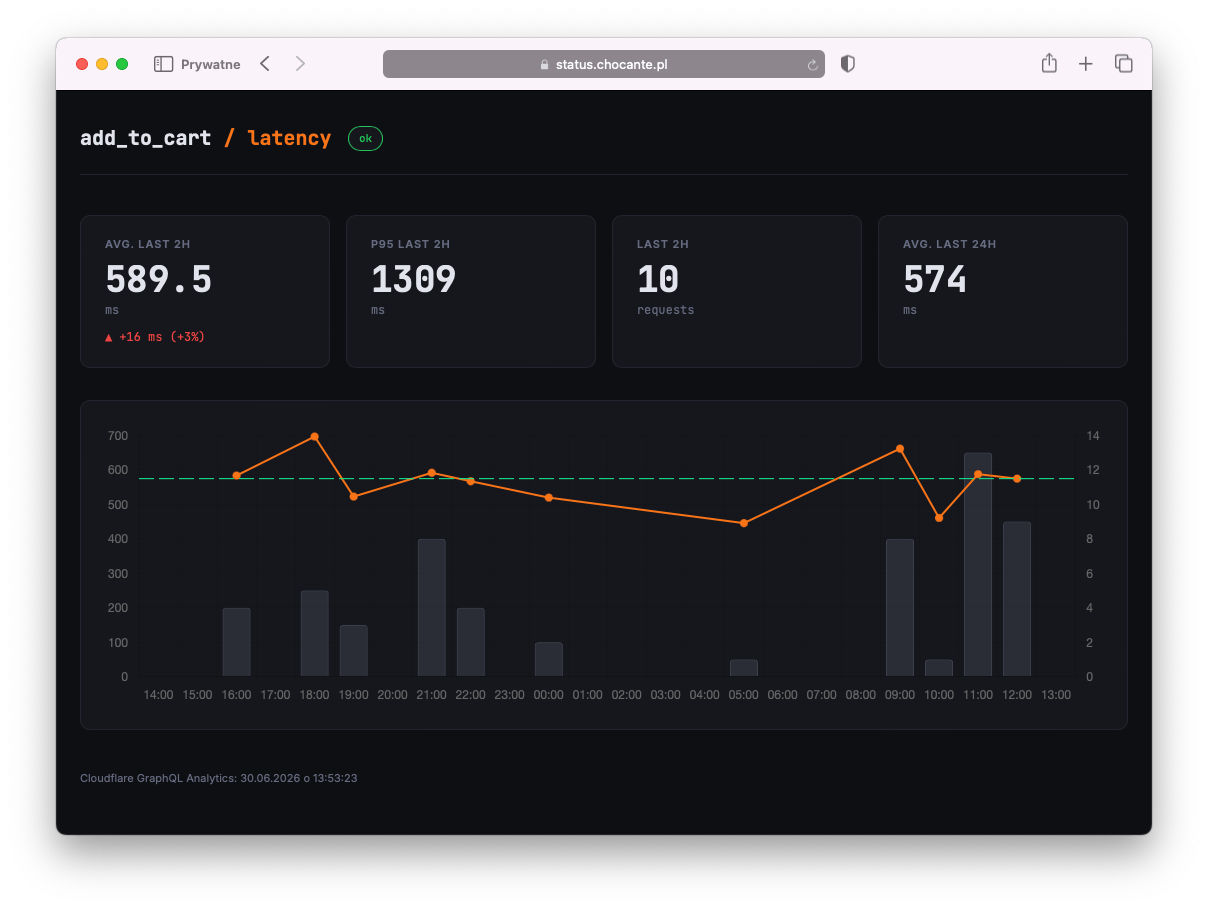
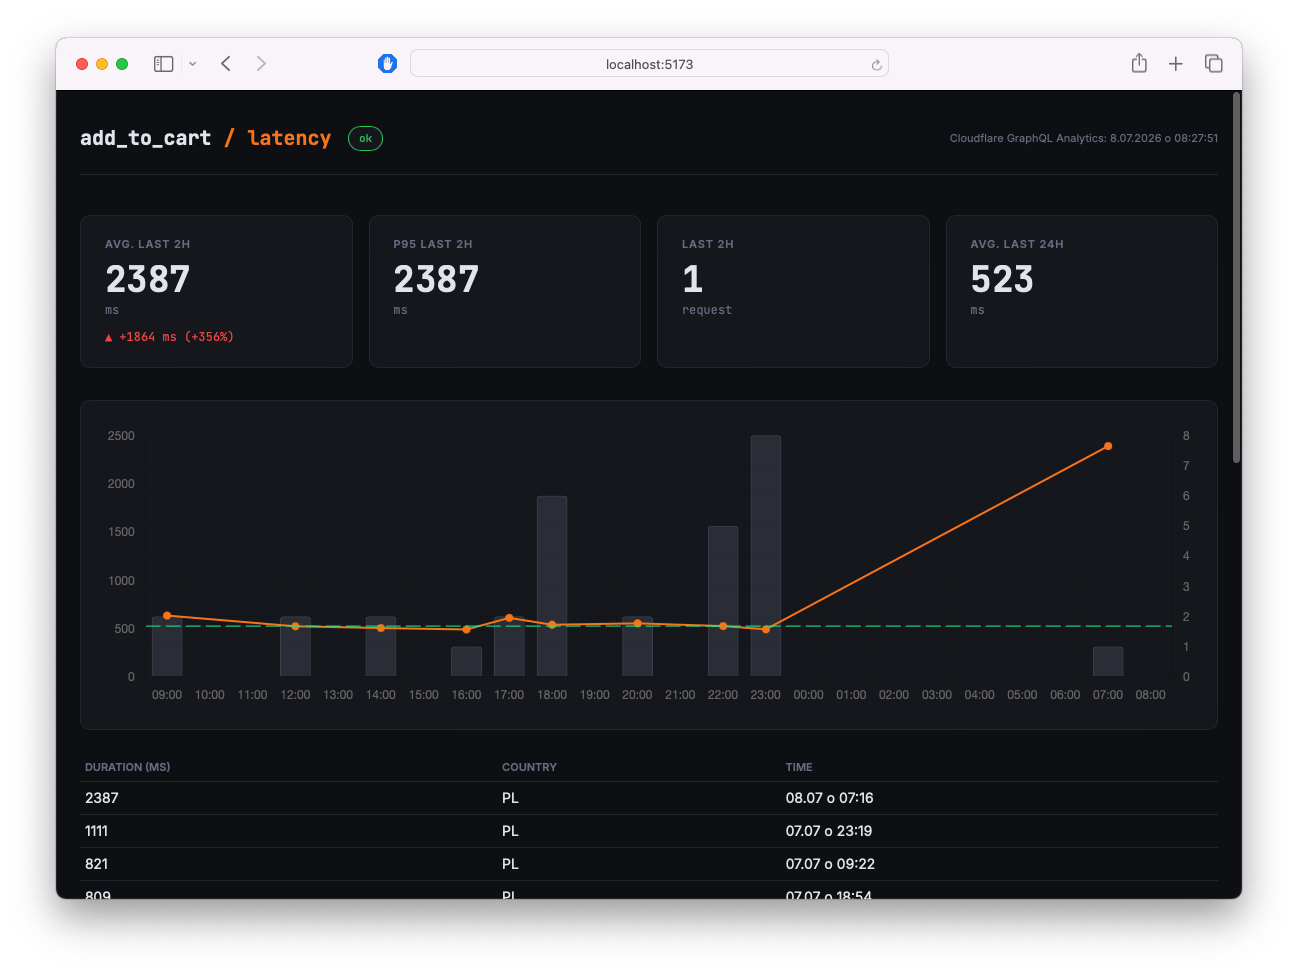
display requests in table

diff --git a/app/src/Table.tsx b/app/src/Table.tsx
@@ -1,0 +1,51 @@
+import type { CFData } from "./data";
+
+interface Props {
+	data: CFData[];
+}
+
+export default function ATCRequestTable({ data }: Props) {
+	const formatTime = (time: string) =>
+		new Date(time).toLocaleTimeString([], {
+			day: "2-digit",
+			month: "2-digit",
+			hour: "2-digit",
+			minute: "2-digit",
+		});
+
+	const sortData = (a: CFData, b: CFData) =>
+		b.originResponseDurationMs - a.originResponseDurationMs;
+
+	return (
+		<>
+			{data.length > 0 && (
+				<table className="request-table">
+					<thead>
+						<tr>
+							<th>Duration (ms)</th>
+							<th>Country</th>
+							<th>Time</th>
+						</tr>
+					</thead>
+					<tbody>
+						{data
+							.sort(sortData)
+							.map(
+								({
+									originResponseDurationMs: duration,
+									clientCountryName: country,
+									datetime: time,
+								}) => (
+									<tr key={time}>
+										<td>{duration}</td>
+										<td>{country}</td>
+										<td>{formatTime(time)}</td>
+									</tr>
+								),
+							)}
+					</tbody>
+				</table>
+			)}
+		</>
+	);
+}

diff --git a/app/src/index.css b/app/src/index.css
@@ -12,6 +12,7 @@
 	--bad: #ef4444;
 	--mono: "JetBrains Mono", monospace;
 	--sans: "Inter", sans-serif;
+	--font-size--label: 11px;
 }
 
 *,
@@ -34,11 +35,19 @@ body {
 
 header {
 	display: flex;
+	flex-wrap: wrap;
 	align-items: center;
 	gap: 16px;
 	margin-bottom: 40px;
 	border-bottom: 1px solid var(--border);
 	padding-bottom: 20px;
+
+	aside {
+		flex-grow: 1;
+		text-align: right;
+		color: var(--muted);
+		font-size: var(--font-size--label);
+	}
 }
 
 header h1 {
@@ -54,7 +63,7 @@ header h1 span {
 
 #status-pill {
 	font-family: var(--mono);
-	font-size: 11px;
+	font-size: var(--font-size--label);
 	padding: 3px 10px;
 	border-radius: 99px;
 	background: var(--surface);
@@ -96,7 +105,7 @@ header h1 span {
 	padding: 20px 24px;
 
 	.label {
-		font-size: 11px;
+		font-size: var(--font-size--label);
 		font-weight: 600;
 		letter-spacing: 0.08em;
 		text-transform: uppercase;
@@ -144,7 +153,7 @@ header h1 span {
 }
 
 .chart-wrap h2 {
-	font-size: 11px;
+	font-size: var(--font-size--label);
 	font-weight: 600;
 	letter-spacing: 0.08em;
 	text-transform: uppercase;
@@ -170,12 +179,30 @@ canvas {
 
 #refresh-info {
 	font-family: var(--mono);
-	font-size: 11px;
+	font-size: var(--font-size--label);
 	color: var(--muted);
 }
 
-footer {
-	color: var(--muted);
-	font-size: 11px;
-	margin-top: 40px;
+.request-table {
+	width: 100%;
+	border-collapse: collapse;
+
+	td,
+	th {
+		padding: 5px;
+		border-bottom: 1px solid var(--border);
+	}
+
+	th {
+		text-align: left;
+		color: var(--muted);
+		text-transform: uppercase;
+		font-size: var(--font-size--label);
+	}
+
+	tr:hover {
+		td {
+			background-color: rgba(102, 107, 128, 0.2);
+		}
+	}
 }

diff --git a/app/src/App.tsx b/app/src/App.tsx
@@ -3,6 +3,7 @@ import StatusPill from "./StatusPill";
 import useCFData from "./data";
 import * as Utils from "./utils";
 import ATCChart from "./Chart";
+import ATCRequestTable from "./Table";
 
 function App() {
 	const [fetchingStatus, data, error, timestamp] = useCFData();
@@ -35,6 +36,7 @@ function App() {
 					add_to_cart <span>/ latency</span>
 				</h1>
 				<StatusPill status={fetchingStatus} />
+				<aside>Cloudflare GraphQL Analytics: {timestamp}</aside>
 			</header>
 
 			{error && <div id="error-box">{error}</div>}
@@ -60,7 +62,7 @@ function App() {
 				<ATCChart dataset={data} avg={avg24} />
 			</div>
 
-			<footer>Cloudflare GraphQL Analytics: {timestamp}</footer>
+			<ATCRequestTable data={data} />
 		</>
 	);
 }

diff --git a/app/src/data.tsx b/app/src/data.tsx
@@ -5,7 +5,8 @@ import { Status } from "./constants";
 export interface CFData {
 	datetime: string;
 	originResponseDurationMs: number;
-};
+	clientCountryName: string;
+}
 
 type CFDataHook = [StatusValue, CFData[], string | null, string];
 

diff --git a/app/src/utils.test.ts b/app/src/utils.test.ts
@@ -132,9 +132,9 @@ describe("getATCRequests", () => {
 	});
 
 	const makeRequest = (datetime: string, ms = 100): CFData => ({
-		clientRequestQuery: "?wc_ajax=add_to_cart",
 		datetime,
 		originResponseDurationMs: ms,
+		clientCountryName: "US",
 	});
 
 	it("returns one bucket per label", () => {

diff --git a/api/cf.php b/api/cf.php
@@ -105,6 +105,7 @@ $body = json_encode(
 		        datetime
 		        clientRequestQuery
 		        originResponseDurationMs
+						clientCountryName
 		      }
 		    }
 		  }